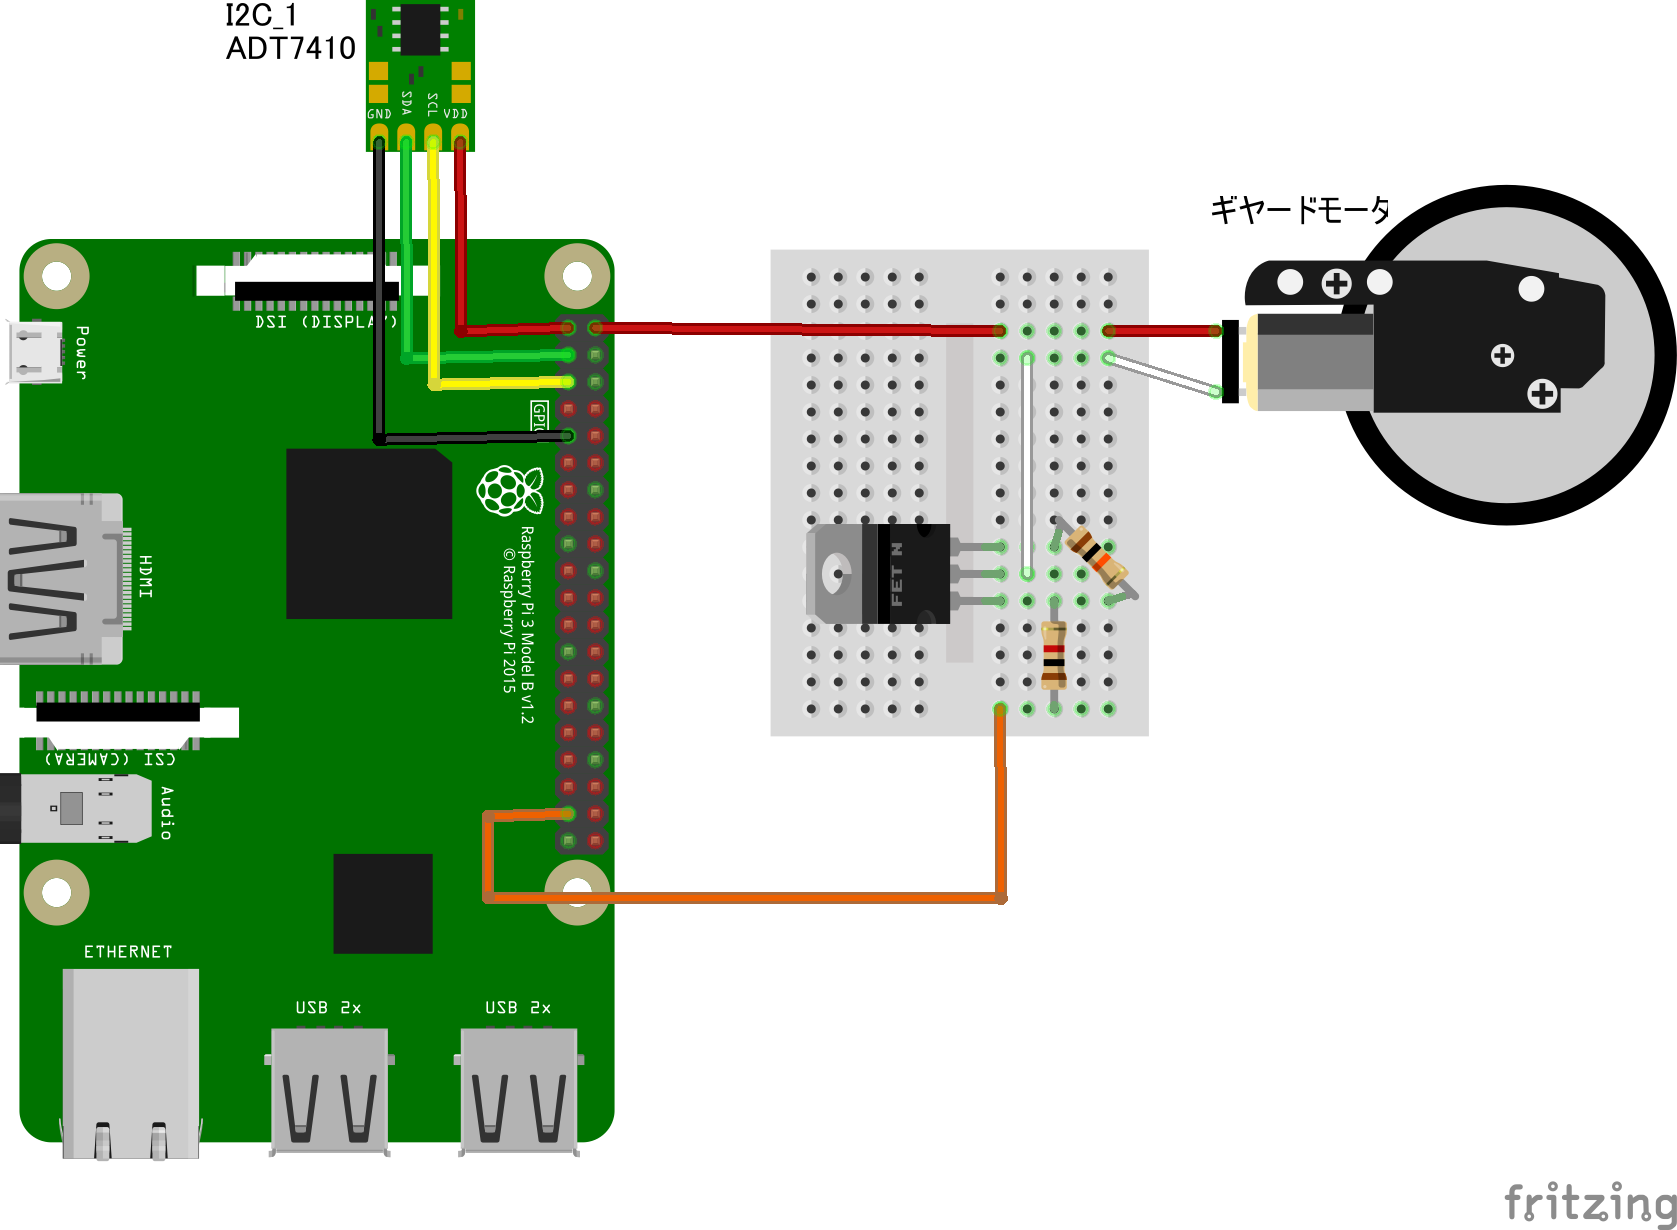
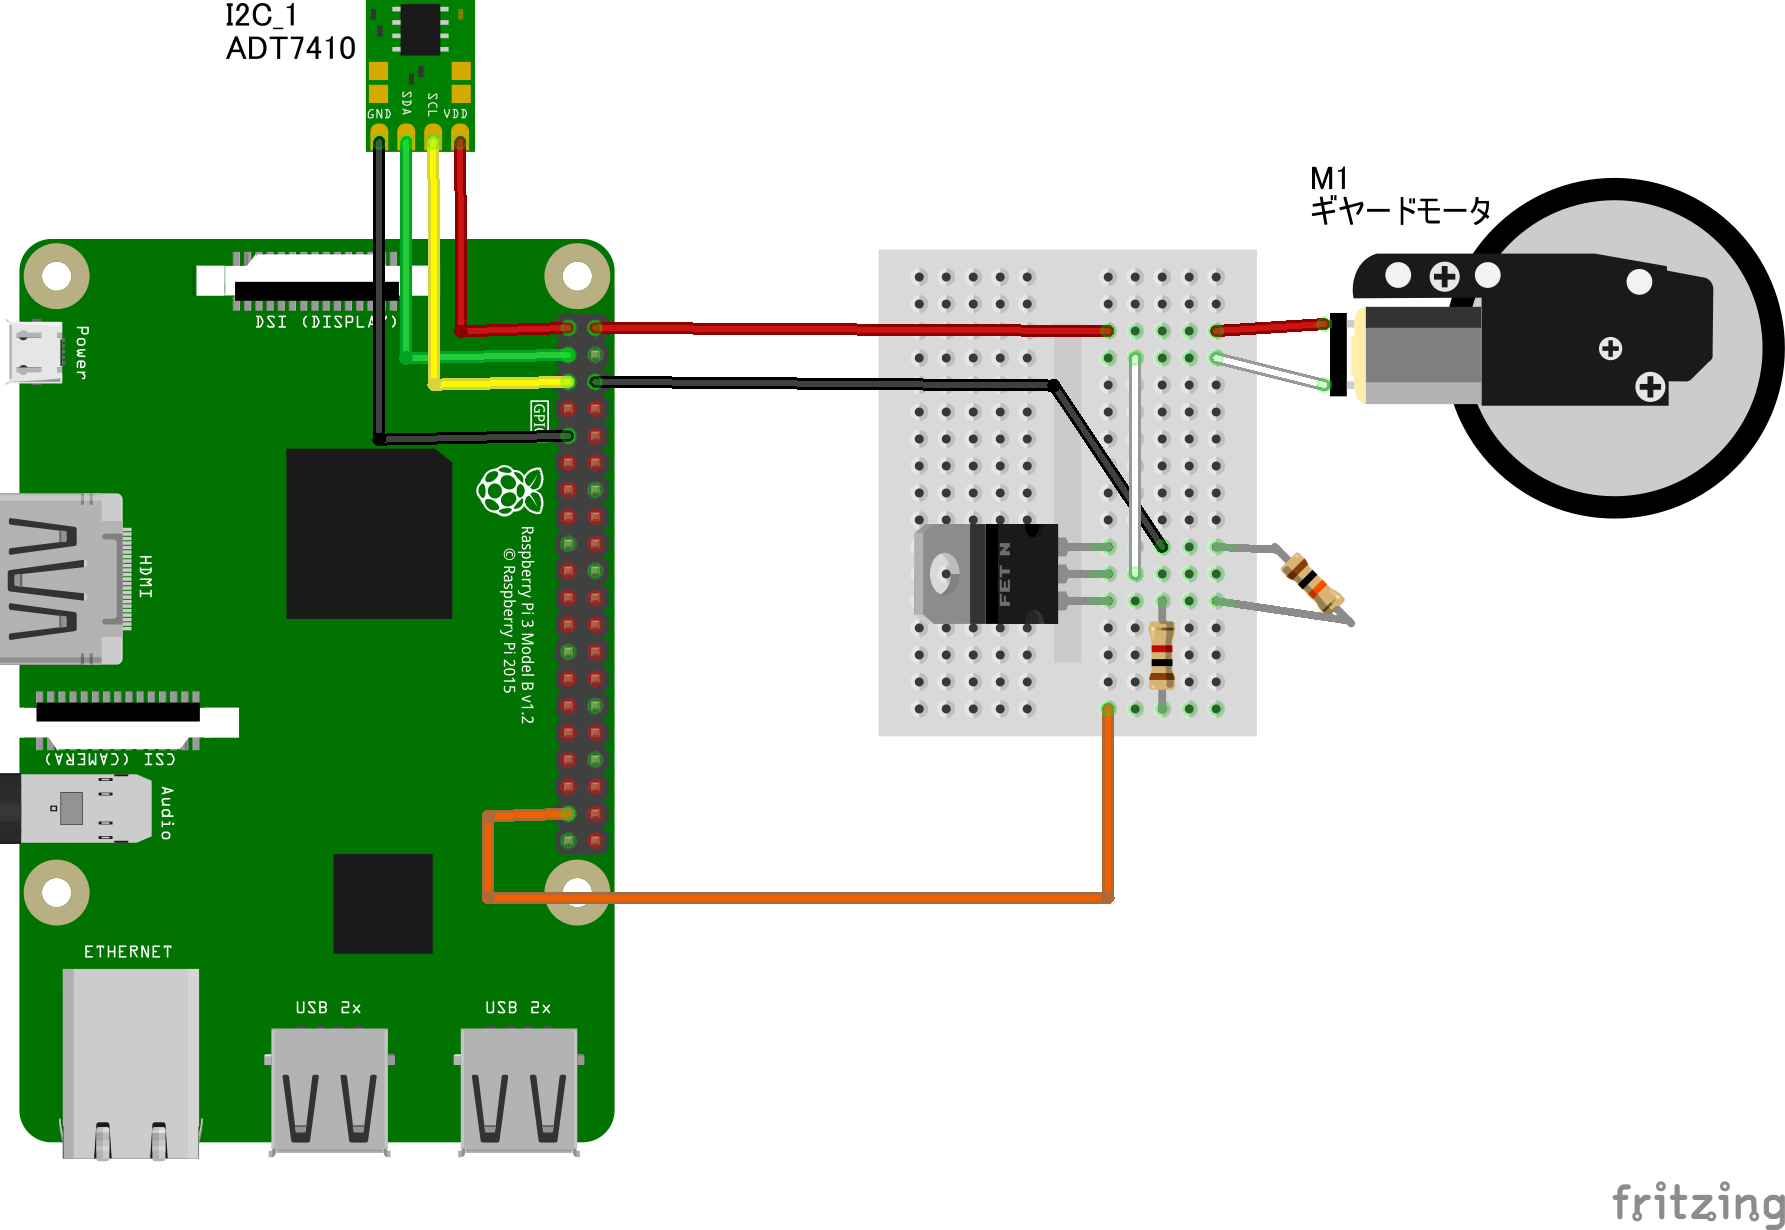
Fixes related to issue #90

diff --git a/raspi/section4.md b/raspi/section4.md
@@ -65,9 +65,12 @@ CHIRIMEN for Raspberry Pi（以下 「CHIRIMEN RasPi」） を使ったプログ
 
 Raspberry Pi との接続方法については、下記回路図を参照ください。
 
+![回路図](imgs/section4/schematic_new.png)
+<!--
 {% cloudinary imgs/section4/schematic_new.png alt="回路図" %}
 
 注意! 上記の配線図は GND 配線が不足しています。図を差し替えるまでは [こちらの画像](https://user-images.githubusercontent.com/188166/101273839-6282bc80-37dc-11eb-8741-9ac208b3d1a9.png) を参照して GND も配線した状態で動かしてください。
+-->
 
 ## b. 接続確認
 
